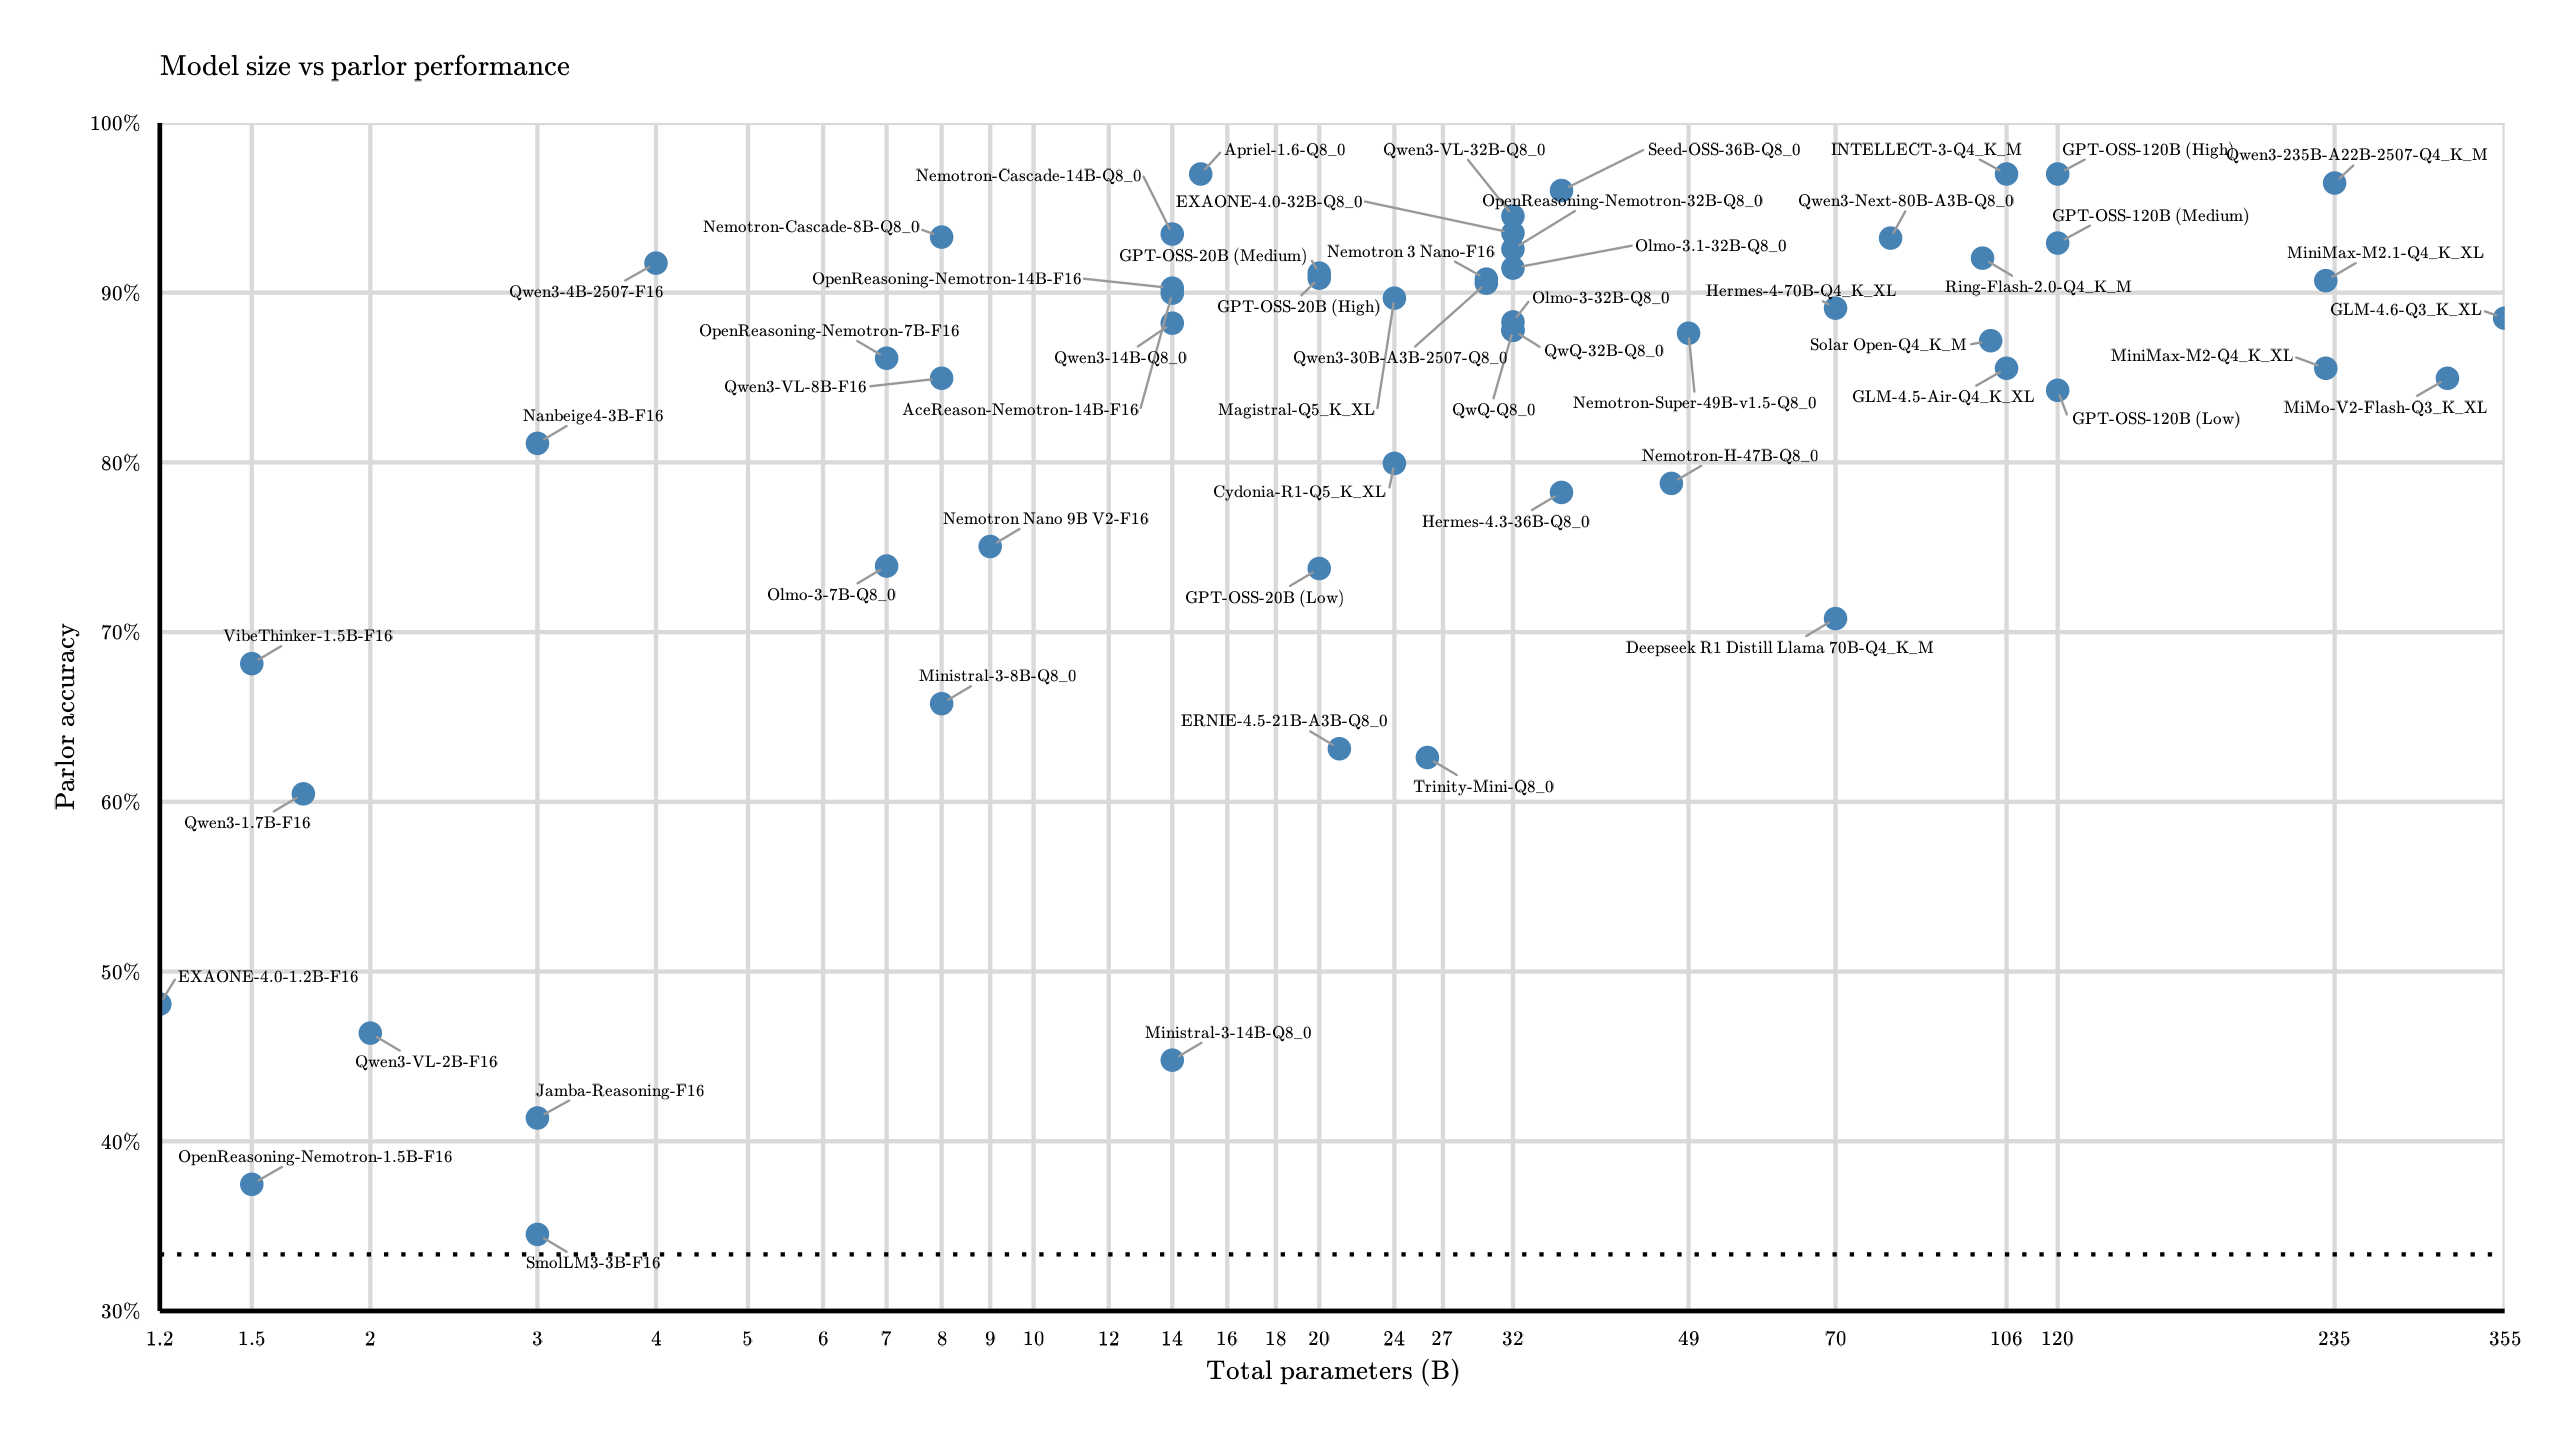
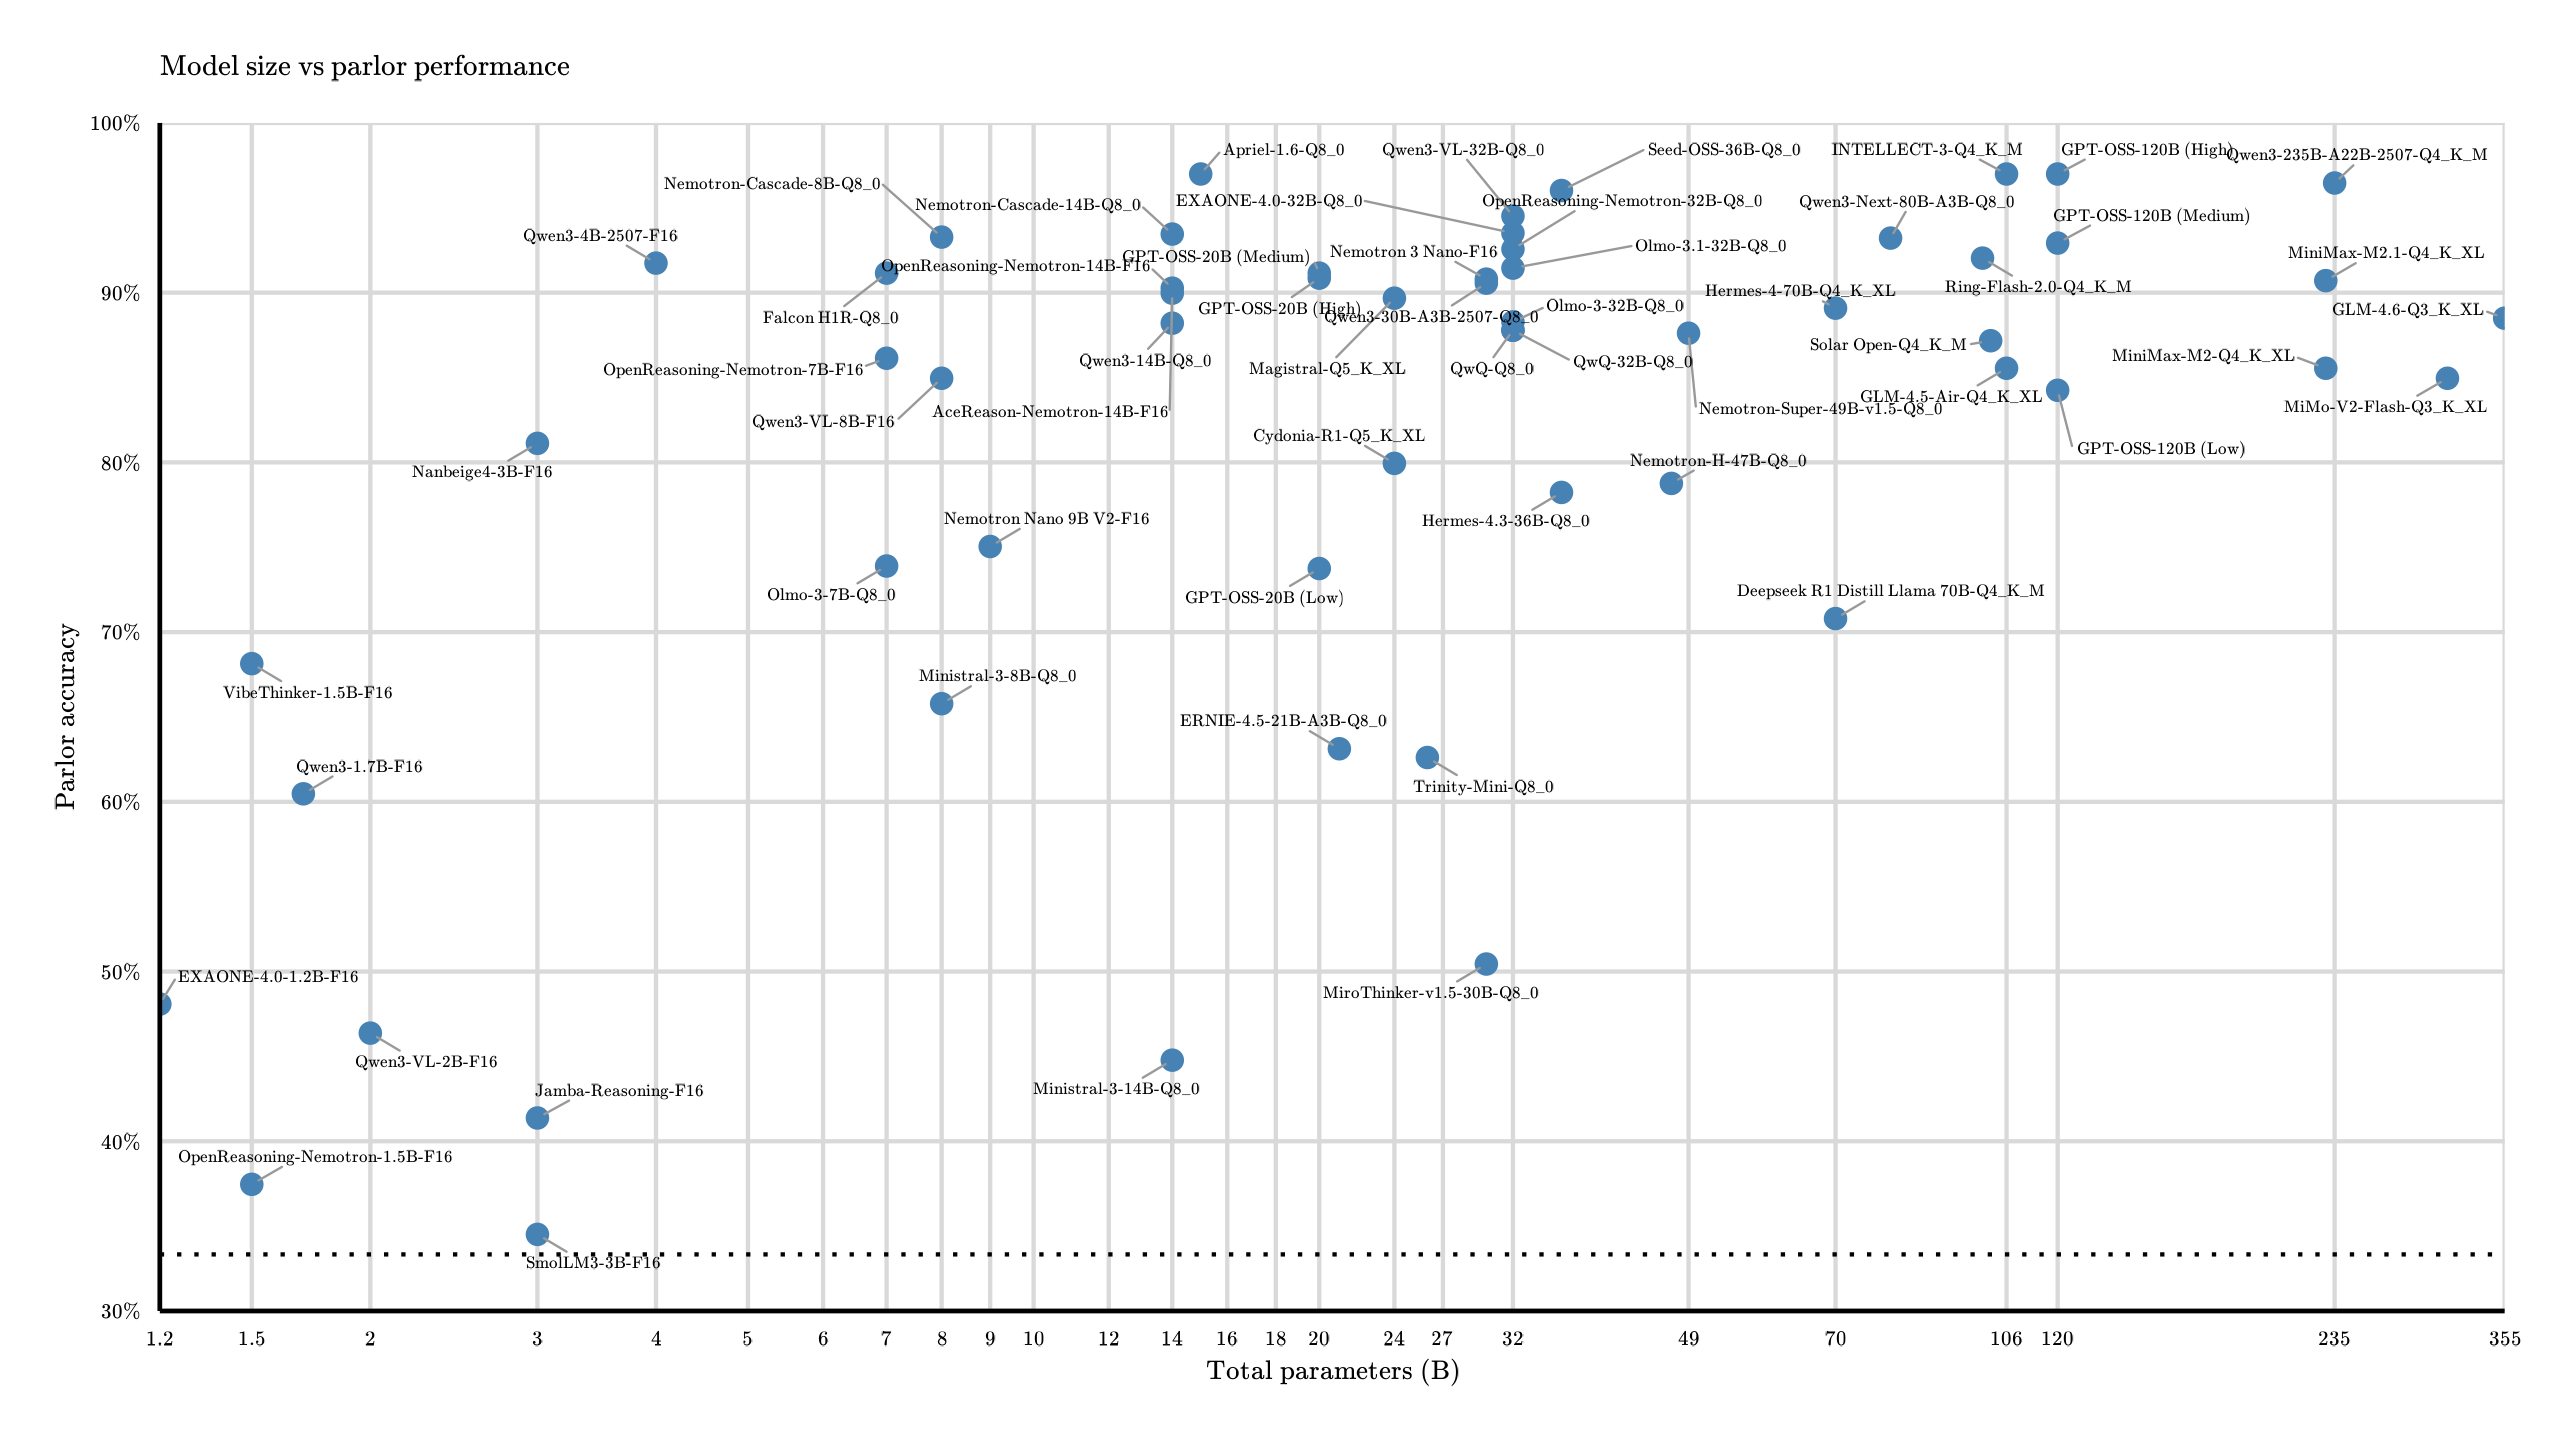
Parlor: new models

diff --git a/pages/parlor-reasoning.html b/pages/parlor-reasoning.html
@@ -44,7 +44,7 @@
         <div class="article-container">
             <header class="article-header">
                 <h1>Reasoning LLMs vs the Parlor Puzzle</h1>
-                <div class="meta">By BigStupidJellyfish | 2025-November-02 | Updated 2026-January-04</div>
+                <div class="meta">By BigStupidJellyfish | 2025-November-02 | Updated 2026-January-09</div>
             </header>
 <div class="article-content">
 
@@ -244,6 +244,14 @@
       <td>92.6%</td> <!-- 315/339 -->
       <td>6120/4500 tokens</td>
     </tr>
+	<tr>
+      <td><a href="https://huggingface.co/tiiuae/Falcon-H1R-7B">Falcon-H1R</a></td>
+	  <td>7B</td>
+	  <td>Q8_0</td>
+      <td>113*3</td>
+      <td>91.2%</td> <!-- 309/339 -->
+      <td>7060/4459 tokens</td>
+    </tr>
 	<!-- <tr>
       <td><a href="https://huggingface.co/TheDrummer/Gemma-3-R1-12B-v1">Gemma3 R1</a></td>
 	  <td>12B</td>
@@ -379,6 +387,14 @@
       <td>113*5</td>
       <td>44.8%</td> <!-- 253/565 -->
       <td>19800/24000 tokens</td> <!-- You read that right. It timed out more than half the time. -->
+    </tr>
+	<tr>
+      <td><a href="https://huggingface.co/miromind-ai/MiroThinker-v1.5-30B">MiroThinker-v1.5</a></td>
+	  <td>30B</td>
+	  <td>Q8_0</td>
+      <td>113*5</td>
+      <td>50.4%</td> <!-- 285/565 -->
+      <td>14589/15371 tokens</td>
     </tr>
 	<tr>
       <td><a href="https://huggingface.co/mistralai/Mistral-Small-3.2-24B-Instruct-2506">Mistral-Small-3.2-24B-Instruct-2506</a> (non-thinking reference)</td>
@@ -872,7 +888,13 @@ Batch final 3: 43317
 	I may try experimenting with this model more in the future, as the low active parameter count make even the proper Q4 run at a decent speed off of RAM, but for now, I can't tell you exactly why the scores are as listed.
 	The 2.1 update seems reasonable, bringing its score into a more respectable region while also using fewer tokens.
 </p>
-
+<h3>MiroThinker</h3>
+<p>
+	This model is based off Qwen 30B/235B to act as a search agent.
+	I only tested the 30B version.
+	Solving parlor puzzles (without websearch) thus will not be a very useful test of its capabilities in that domain.
+	So, while I would not want to use this score to judge the model's value overall, I still found it interesting to compare performance here vs the base model.
+</p>
 <h3>Mistral Small/Magistral/Ministral</h3>
 <p>
 	Mistral Small is quite good!
@@ -1159,6 +1181,14 @@ The statement matching this statement is on a completely true box."
 	<tr>
       <td><a href="https://huggingface.co/Qwen/Qwen3-Next-80B-A3B-Thinking">Qwen3-Next-80B-A3B</a></td>
 	  <td>80B</td>
+	  <td>Q6_K_XL</td>
+      <td>113*5</td>
+	  <td>93.5%</td> <!-- 528/565 -->
+      <td>6744/5472 tokens</td>
+    </tr>
+	<tr>
+      <td></td>
+	  <td></td>
 	  <td>Q8_0</td>
       <td>113*3</td>
 	  <td>93.2%</td> <!-- 316/339 -->
